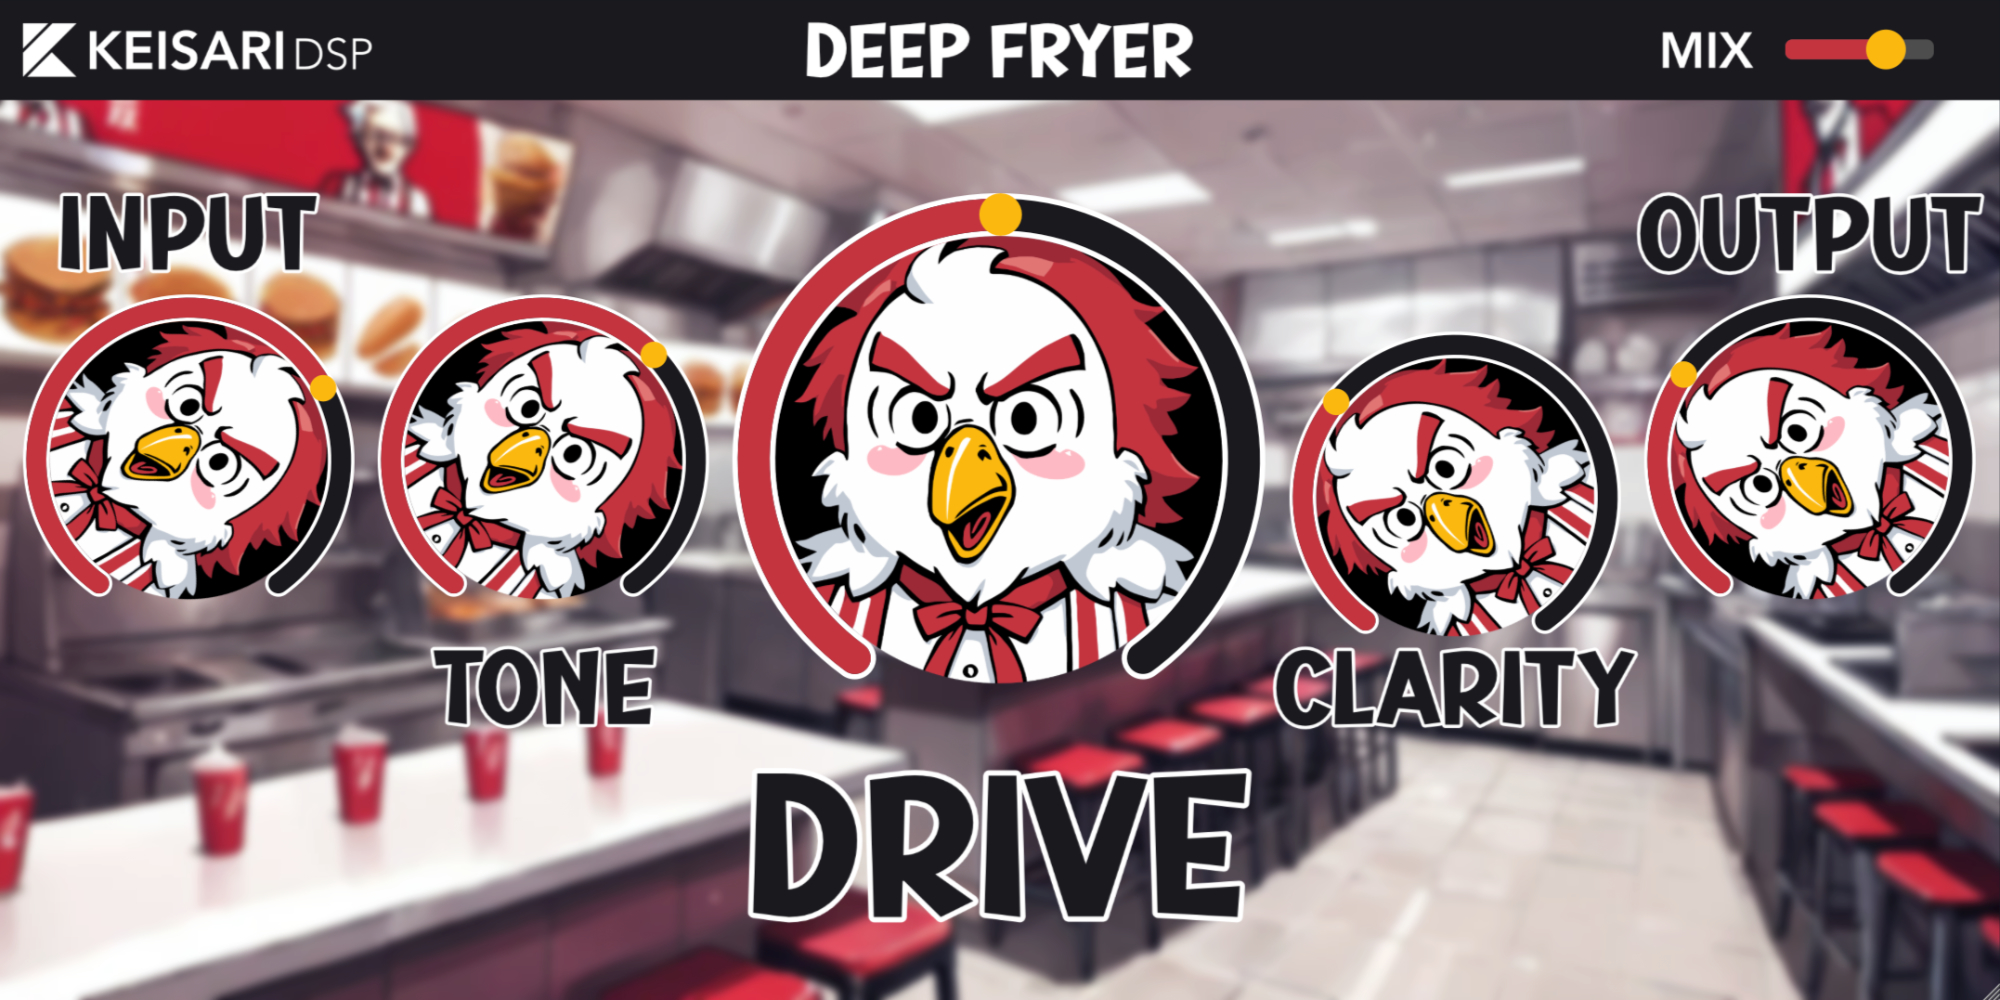
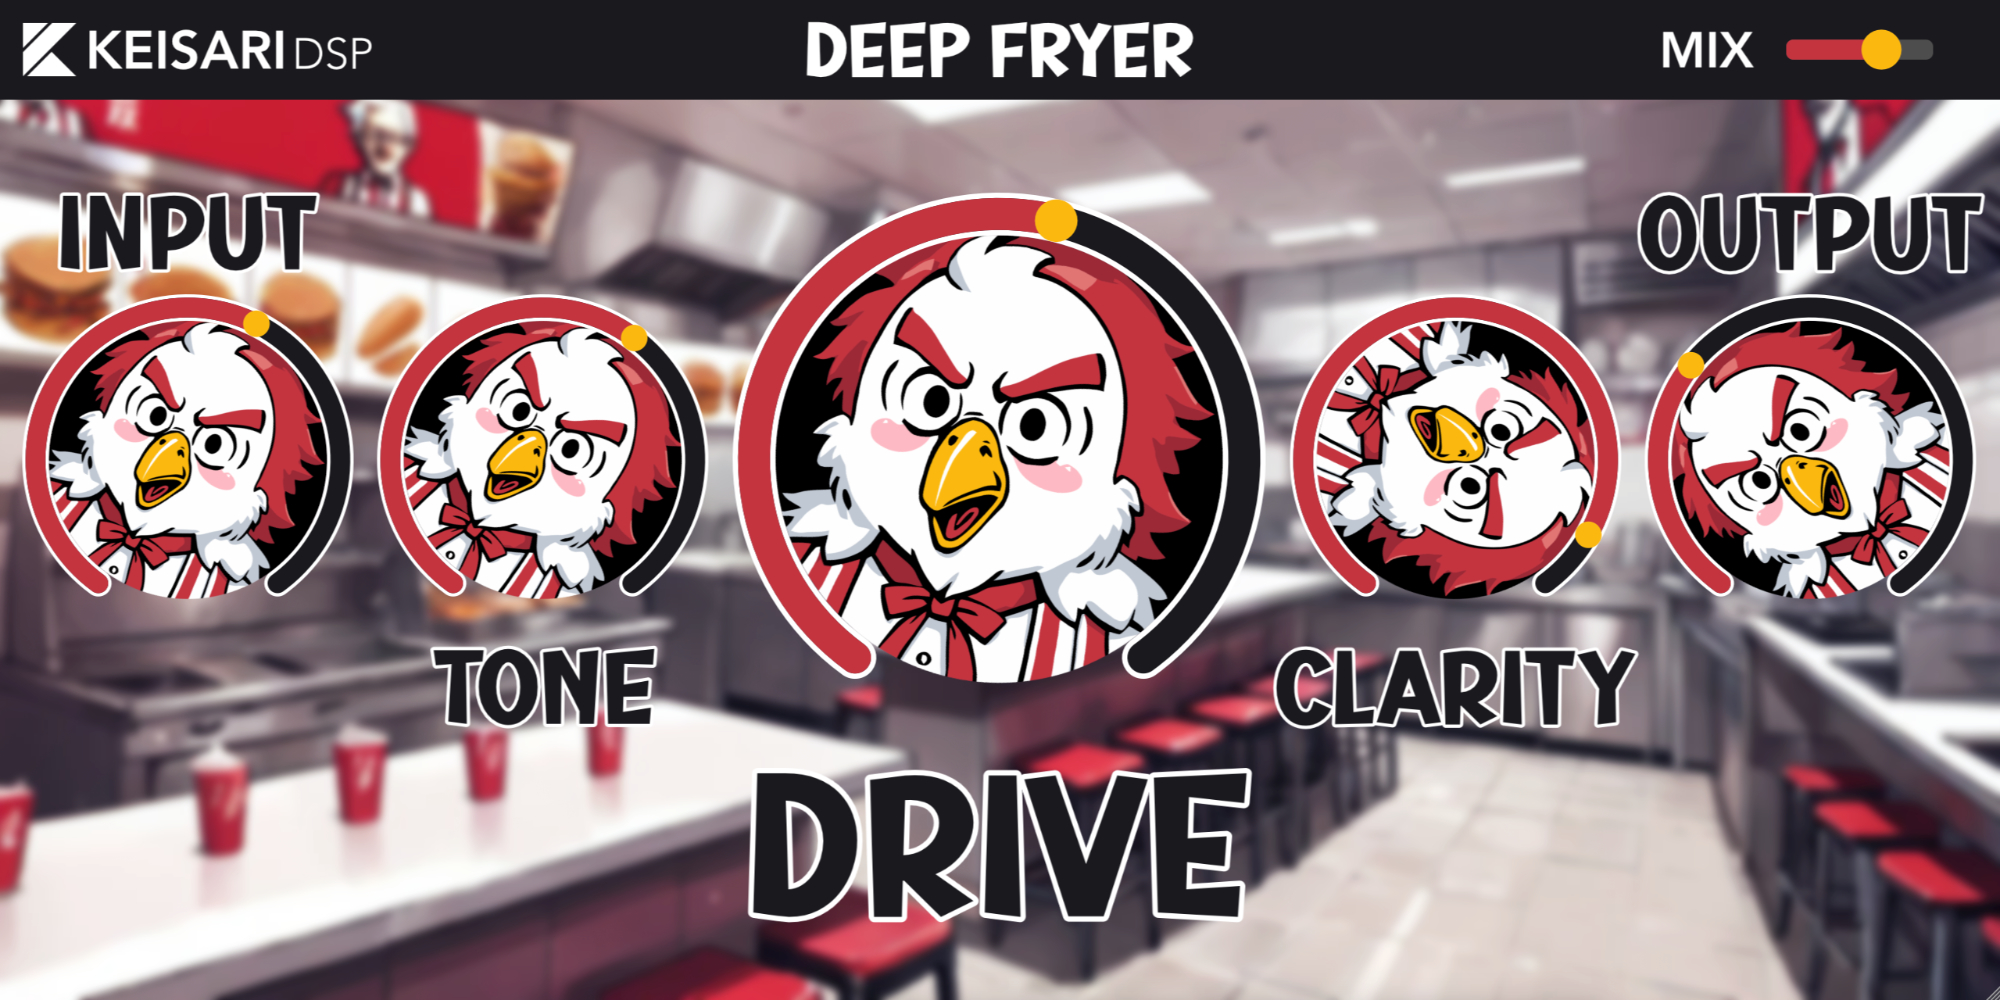
Add new user interface image

diff --git a/README.md b/README.md
@@ -16,11 +16,6 @@ To download the latest release, visit the [official website](https://eemilahonen
 [//]: # "#### Version 1.0.0"
 [//]: # "- Release"
 
-## TODO
-
-- Fix the tone knob Y-coordinate.
-- Move the drive text higher.
-
 ## Credits
 
 - Lead Developer & Graphics - [Keisari](https://github.com/EemilAhonen)
